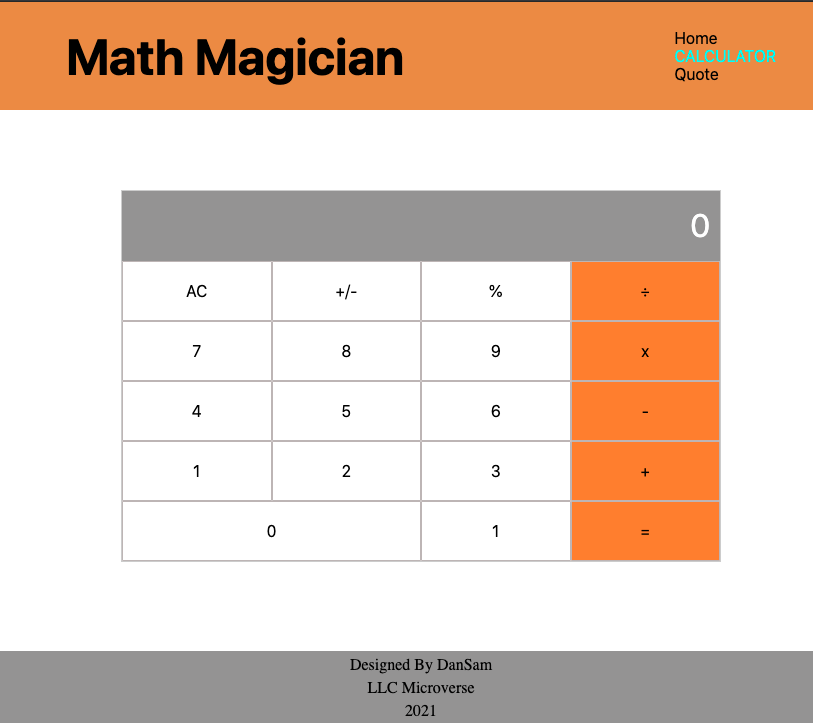
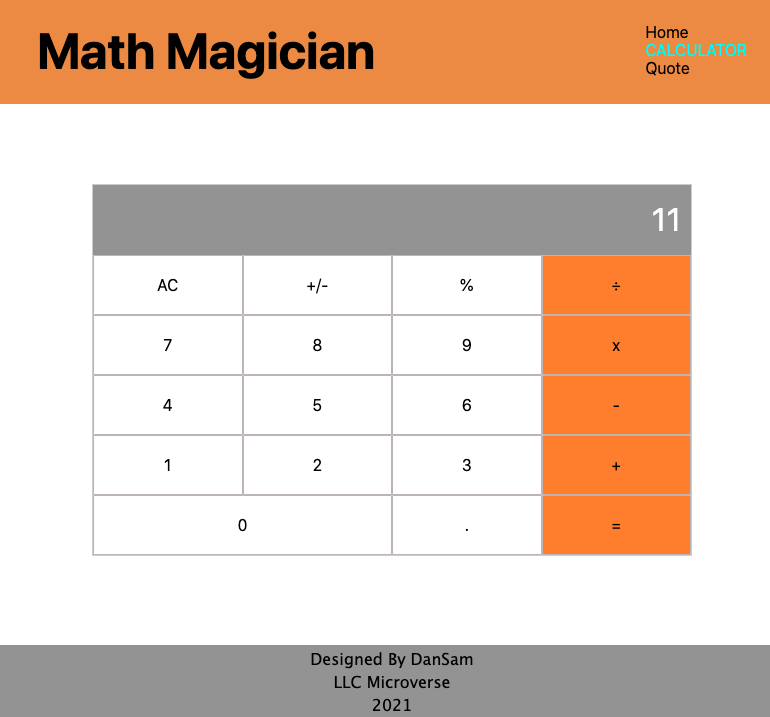
Fix Buttons keys bug on calculator & update screenshot

diff --git a/src/components/Calculator.js b/src/components/Calculator.js
@@ -29,7 +29,7 @@ const Calculator = () => {
   };
 
   const outputValue = generateOutputValue(calculateState);
-  const buttonKeys = ['AC', '+/-', '%', '÷', '7', '8', '9', 'x', '4', '5', '6', '-', '1', '2', '3', '+', '0', '1', '='];
+  const buttonKeys = ['AC', '+/-', '%', '÷', '7', '8', '9', 'x', '4', '5', '6', '-', '1', '2', '3', '+', '0', '.', '='];
   const buttons = buttonKeys.map((val) => (
     <MagicBtn value={val} key={0} clickEventListener={clickEventListener} />
   ));
